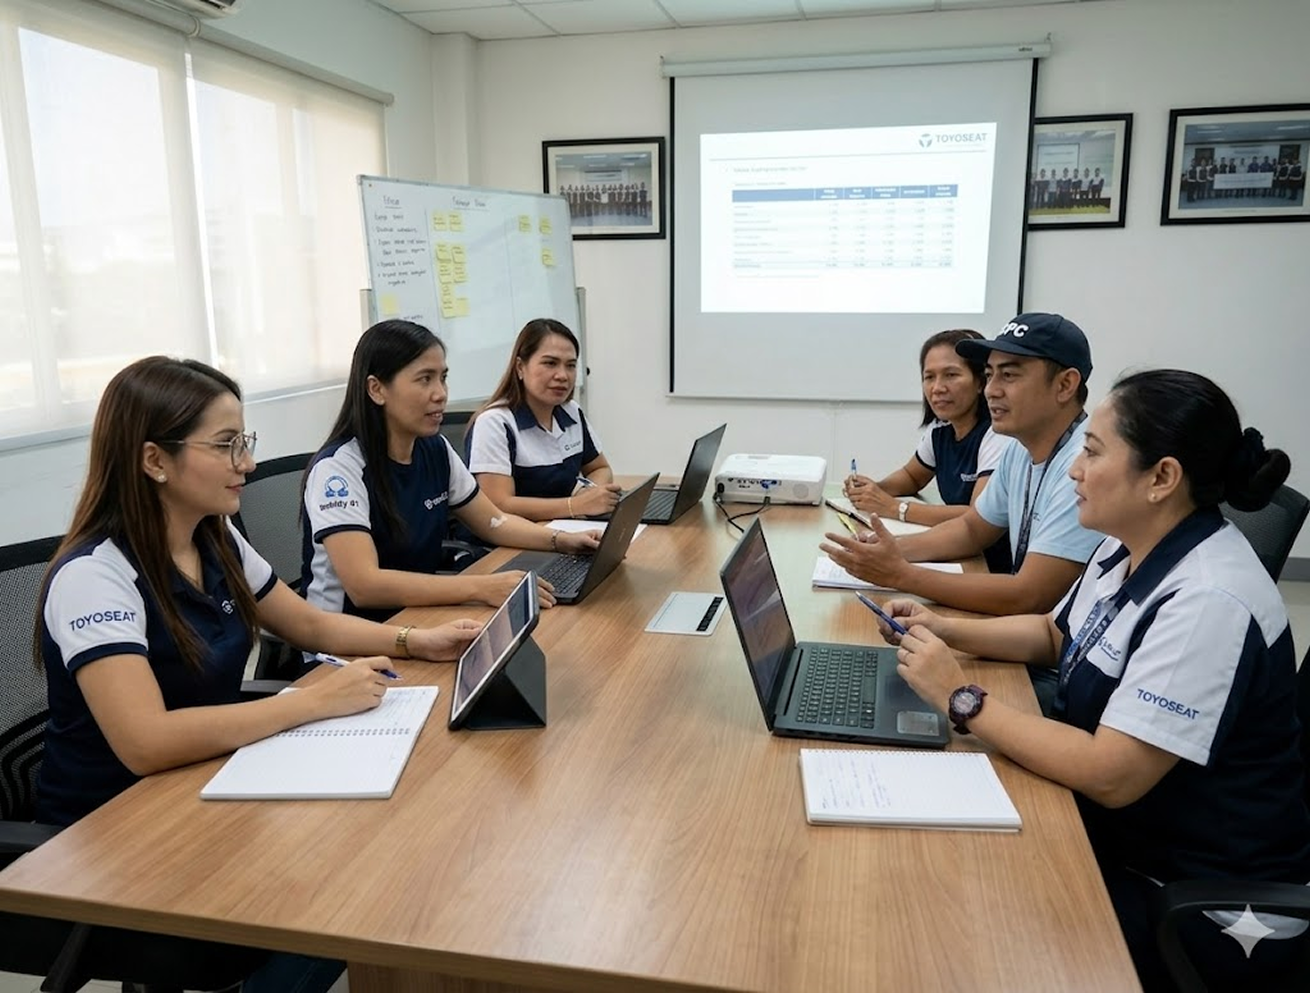
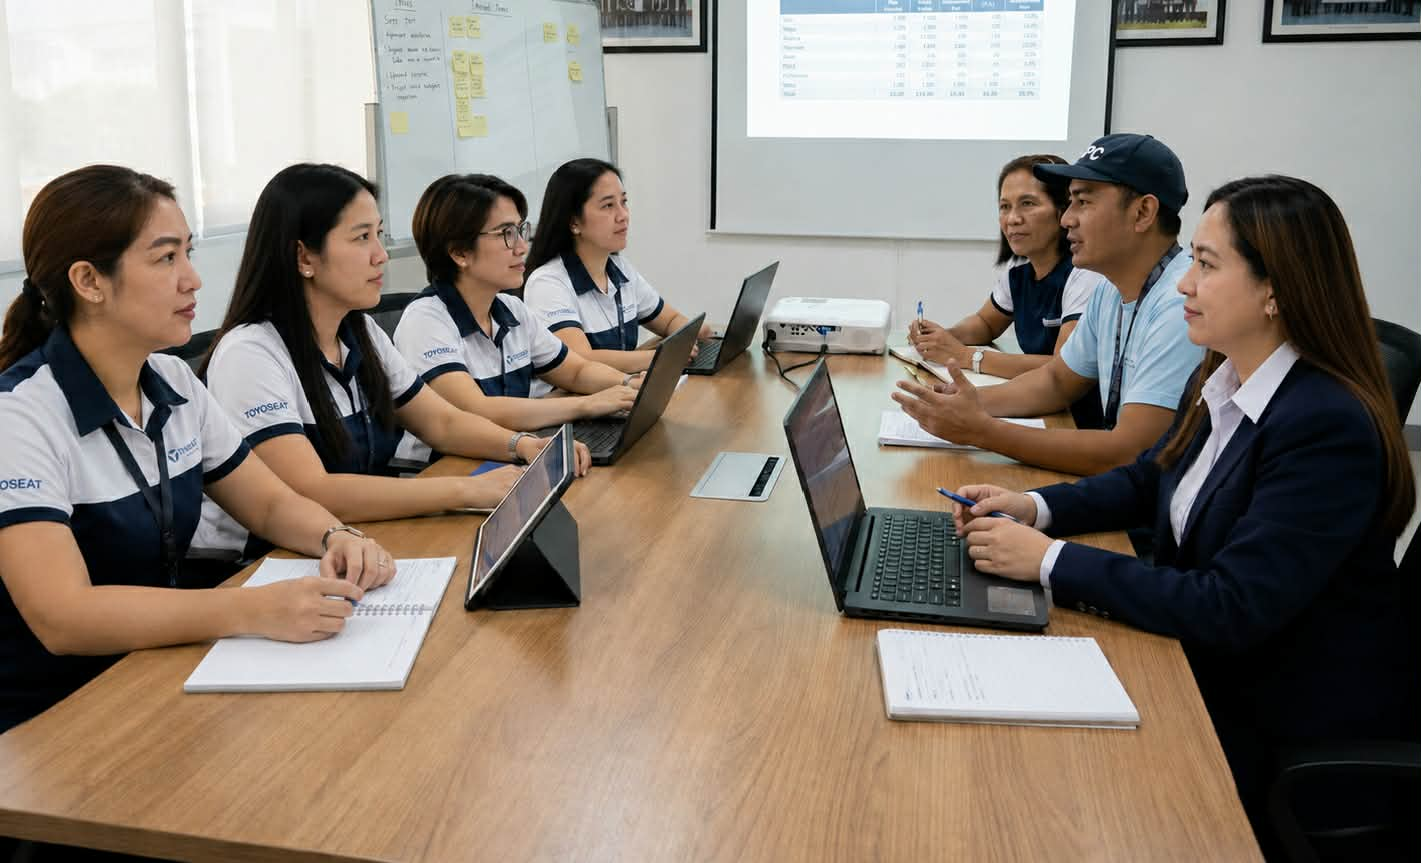
added-home1.png

diff --git a/resources/views/home.blade.php b/resources/views/home.blade.php
@@ -84,7 +84,7 @@ $hasSlides = $slides->count() > 0;
 
 <!-- SECTION 2 -->
 <div class="section2"
-     style="background-image: url('{{ '/storage.php?file=images/newsbg.jpg' }}');"
+     style="background-image: url('{{ '/storage.php?file=images/Home1.png' }}');"
             background-size: cover;
             background-position: center;
             background-repeat: no-repeat;">
